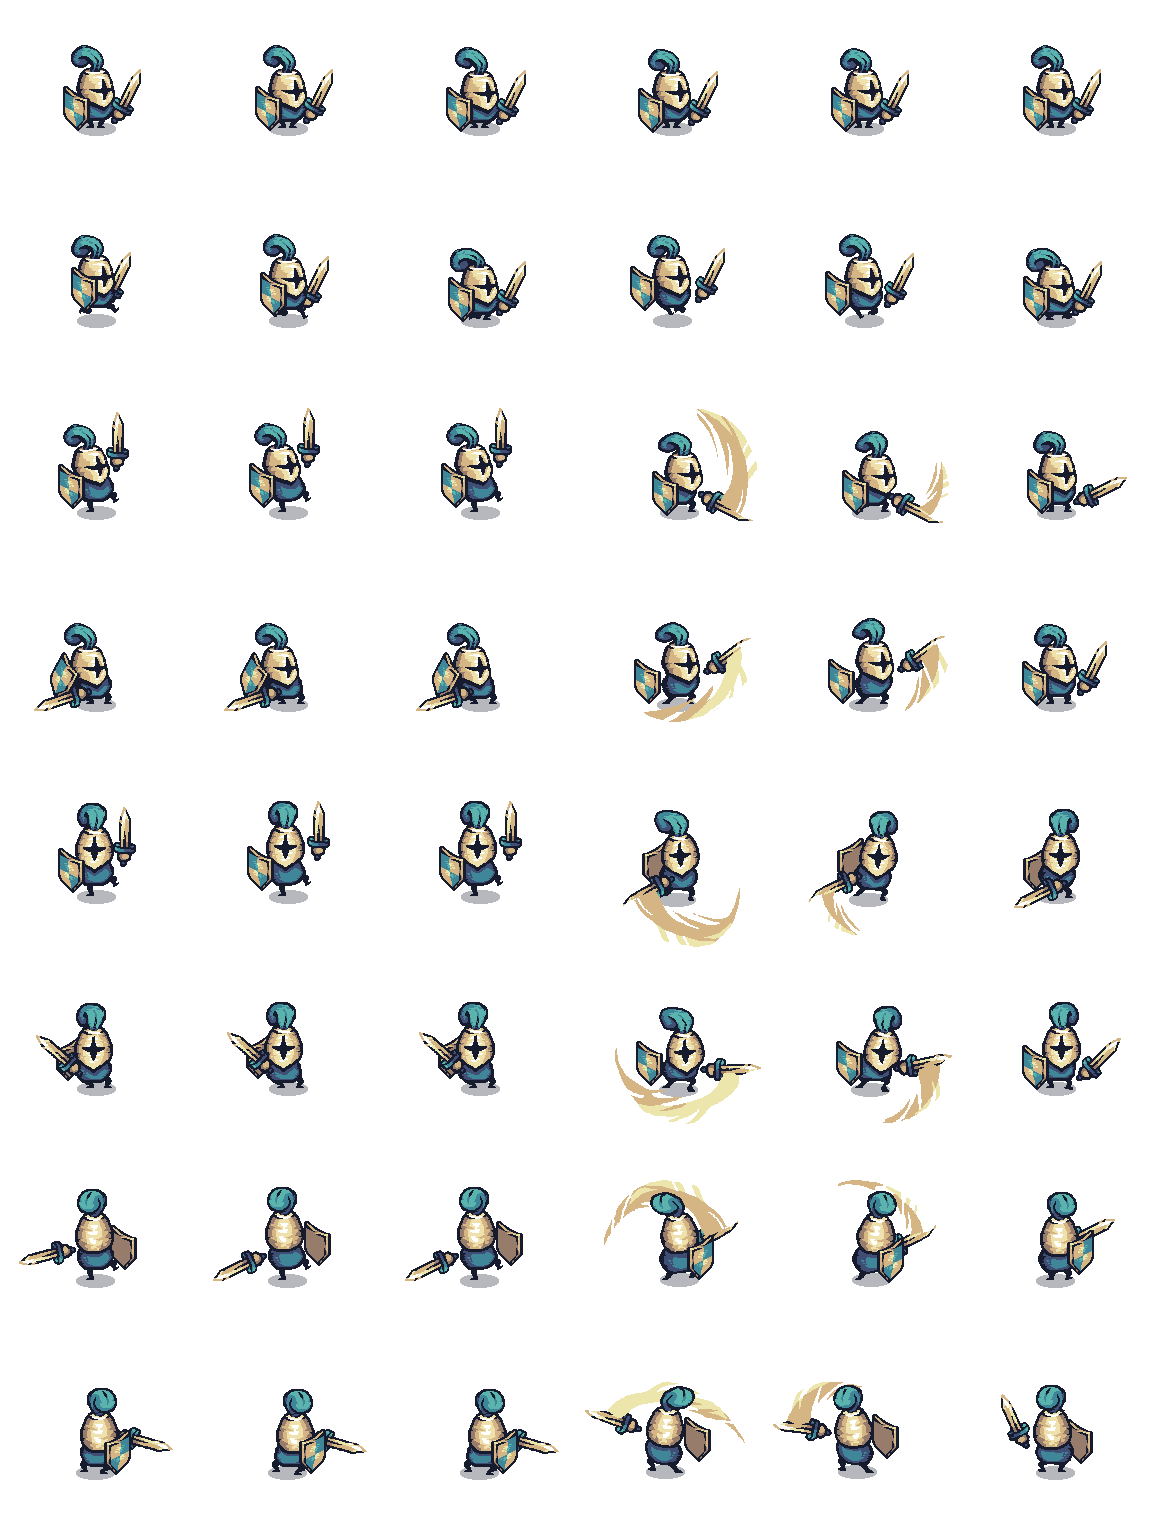
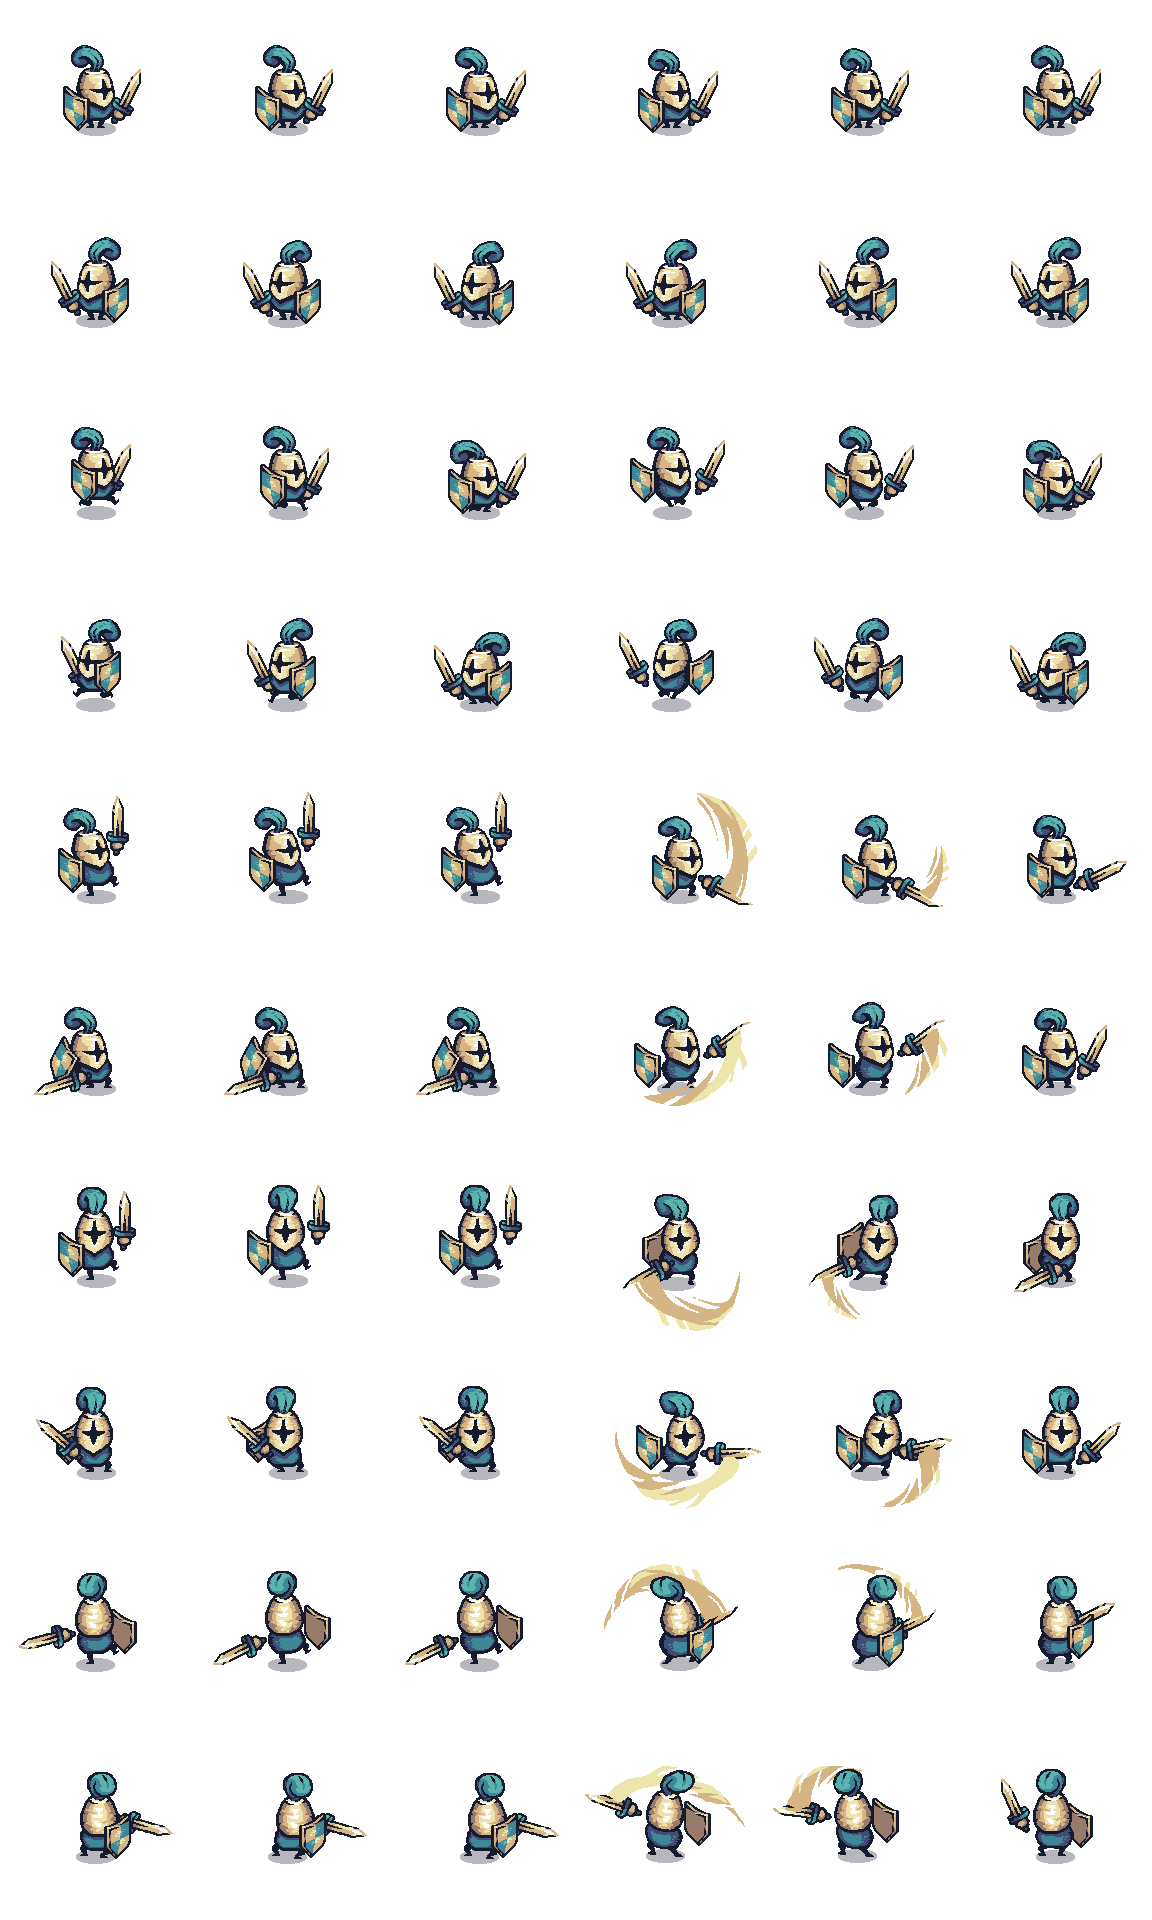
feat: add animation to left

diff --git a/apps/tiny-swords/src/app/character/character.ts b/apps/tiny-swords/src/app/character/character.ts
@@ -7,12 +7,14 @@ export default class Character extends Sprite {
   readonly #directionStep: Record<Directions, number>;
   #pushedButtons: (Directions)[] = [];
   #movingProgressRemaining: number;
+  #delayedDirection: Directions;
+  #isRightDirection = true;
   direction: Directions;
 
   constructor(ctx: CanvasRenderingContext2D | null) {
     super({
       ctx,
-      spriteSrc: '/img/Factions/Knights/Troops/Warrior/Purple/Warrior_Purple.png',
+      spriteSrc: '/img/Factions/Knights/Troops/Warrior/Blue/Warrior_Blue.png',
       spriteSize: 192,
       spriteFramesCount: 6,
       x: 48,
@@ -30,61 +32,71 @@ export default class Character extends Sprite {
       'KeyD': 'right',
     }
     this.#directionStep = {
-      up: -8,
-      down: 8,
-      left: -8,
-      right: 8
+      up: -16,
+      down: 16,
+      left: -16,
+      right: 16
     }
   }
 
-  get #direction() {
+  get #direction(): Directions {
     return this.#pushedButtons[0]
   }
 
-  move(code: string) {
+  move(code: string): void {
     const direction = this.#pushedKeys[code];
 
     if(direction && this.#pushedButtons.indexOf(direction) === -1) {
       this.#pushedButtons.unshift(direction);
-      this.direction = direction
+      this.#delayedDirection = direction;
     }
   }
 
-  stop(code: string) {
+  stop(code: string): void {
     const direction = this.#pushedKeys[code];
     const directionIdx = this.#pushedButtons.indexOf(direction);
     if(directionIdx > -1) {
       this.#pushedButtons.splice(directionIdx, 1)
     }
-    this.changeAnimation(CharacterAction.STANDS_STILL)
+
+    if(this.direction === 'left') {
+      this.#isRightDirection = false;
+    }
+
+    if(this.direction === 'right') {
+      this.#isRightDirection = true
+    }
   }
 
-  updatePosition() {
+  init(): void {
+    this.draw();
+    this.updatePosition();
+  }
+
+  private updatePosition(): void {
     if(this.#movingProgressRemaining > 0) {
       const isVerticalDirection = this.direction === 'up' || this.direction === 'down'
-      const isHorizontalDirection = this.direction === 'left' || this.direction === 'right'
+      const isHorizontalDirection = this.direction === 'left' || this.direction === 'right';
 
       if(isHorizontalDirection) {
         this.changeXCoordinate(this.#directionStep[this.direction]);
+        this.changeAnimation(this.direction === 'left' ? CharacterAction.RUN_LEFT : CharacterAction.RUN);
       }
 
       if(isVerticalDirection) {
         this.changeYCoordinate(this.#directionStep[this.direction]);
+        this.changeAnimation(this.#isRightDirection ? CharacterAction.RUN : CharacterAction.RUN_LEFT);
       }
 
-      this.#movingProgressRemaining -= 8
-      this.changeAnimation(CharacterAction.RUN);
+      this.#movingProgressRemaining -= 16
     } else {
-      this.changeAnimation(CharacterAction.STANDS_STILL);
+      const animation = this.#isRightDirection ? CharacterAction.STANDS_STILL : CharacterAction.STANDS_STILL_LEFT
+      this.changeAnimation(animation);
     }
 
     if(this.#movingProgressRemaining === 0 && this.#direction) {
       this.#movingProgressRemaining = this.step * this.scale;
+      this.direction = this.#delayedDirection;
     }
-  }
-
-  init() {
-    this.draw();
-    this.updatePosition();
   }
 }

diff --git a/apps/tiny-swords/src/app/sprite/sprite.ts b/apps/tiny-swords/src/app/sprite/sprite.ts
@@ -5,8 +5,8 @@ export default abstract class Sprite {
   #col: number;
   #x: number;
   #y: number;
-  #image: HTMLImageElement;
   #isLoaded: boolean;
+  readonly #image: HTMLImageElement;
   protected scale = 0.75;
   protected step = 64;
   protected constructor(protected options: Options) {
@@ -16,18 +16,34 @@ export default abstract class Sprite {
     this.#y = options.y;
     this.#isLoaded = false;
 
-
-   this.#image = new Image();
-   this.#image.src = this.options.spriteSrc;
-   this.#image.onload = () => {
-     this.#isLoaded = true
-   }
+    this.#image = new Image();
+    this.#image.src = this.options.spriteSrc;
+    this.#image.onload = () => {
+      this.#isLoaded = true;
+    };
   }
 
-  protected draw() {
+  #getCornerCoordinates(): [number, number] {
+    const { spriteSize } = this.options;
+
+    switch (this.scale) {
+      case 0.75:
+        return [
+          (spriteSize * this.scale + this.step * this.scale) * this.#col,
+          (spriteSize * this.scale + this.step * this.scale) * this.#row
+        ]
+      case 1:
+        return [
+          spriteSize * this.scale * this.#col,
+          spriteSize * this.scale * this.#row
+        ]
+    }
+  }
+
+
+  protected draw(): void {
     const { spriteSize, ctx, spriteFramesCount } = this.options;
-    const sx = (spriteSize * this.scale + this.step * this.scale) * this.#col;
-    const sy = (spriteSize * this.scale + this.step * this.scale) * this.#row;
+    const [sx, sy] = this.#getCornerCoordinates()
     const dx = this.#x * this.scale;
     const dy = this.#y * this.scale;
     const sWidth = spriteSize;
@@ -35,7 +51,7 @@ export default abstract class Sprite {
     const dWidth = spriteSize * this.scale;
     const dHeight = spriteSize * this.scale;
 
-    if(this.#isLoaded) {
+    if (this.#isLoaded) {
       ctx?.drawImage(this.#image, sx, sy, sWidth, sHeight, dx, dy, dWidth, dHeight);
     }
 
@@ -43,15 +59,15 @@ export default abstract class Sprite {
     else this.#col = 0;
   }
 
-  protected changeXCoordinate(value: number) {
+  protected changeXCoordinate(value: number): void {
     this.#x += value;
   }
 
-  protected changeYCoordinate(value: number) {
+  protected changeYCoordinate(value: number): void {
     this.#y += value;
   }
 
-  protected changeAnimation(row: number) {
+  protected changeAnimation(row: number): void {
     this.#row = row;
   }
 }

diff --git a/apps/tiny-swords/src/app/sprite/sprite.types.ts b/apps/tiny-swords/src/app/sprite/sprite.types.ts
@@ -1,7 +1,7 @@
 export type Options = {
   ctx: CanvasRenderingContext2D | null;
   spriteSrc: string;
-  spriteSize: number
+  spriteSize: number;
   spriteFramesCount: number;
   x: number;
   y: number;

diff --git a/apps/tiny-swords/src/app/character/character.const.ts b/apps/tiny-swords/src/app/character/character.const.ts
@@ -1,6 +1,8 @@
 export enum CharacterAction {
   STANDS_STILL,
+  STANDS_STILL_LEFT,
   RUN,
+  RUN_LEFT,
   RIGHT_ATTACK_UP,
   RIGHT_ATTACK_DOWN,
   FRONT_ATTACK_UP,

diff --git a/apps/tiny-swords/src/app/sprite/index.ts b/apps/tiny-swords/src/app/sprite/index.ts
@@ -1,3 +1,3 @@
 import Sprite from './sprite';
 
-export { Sprite }
+export { Sprite };
